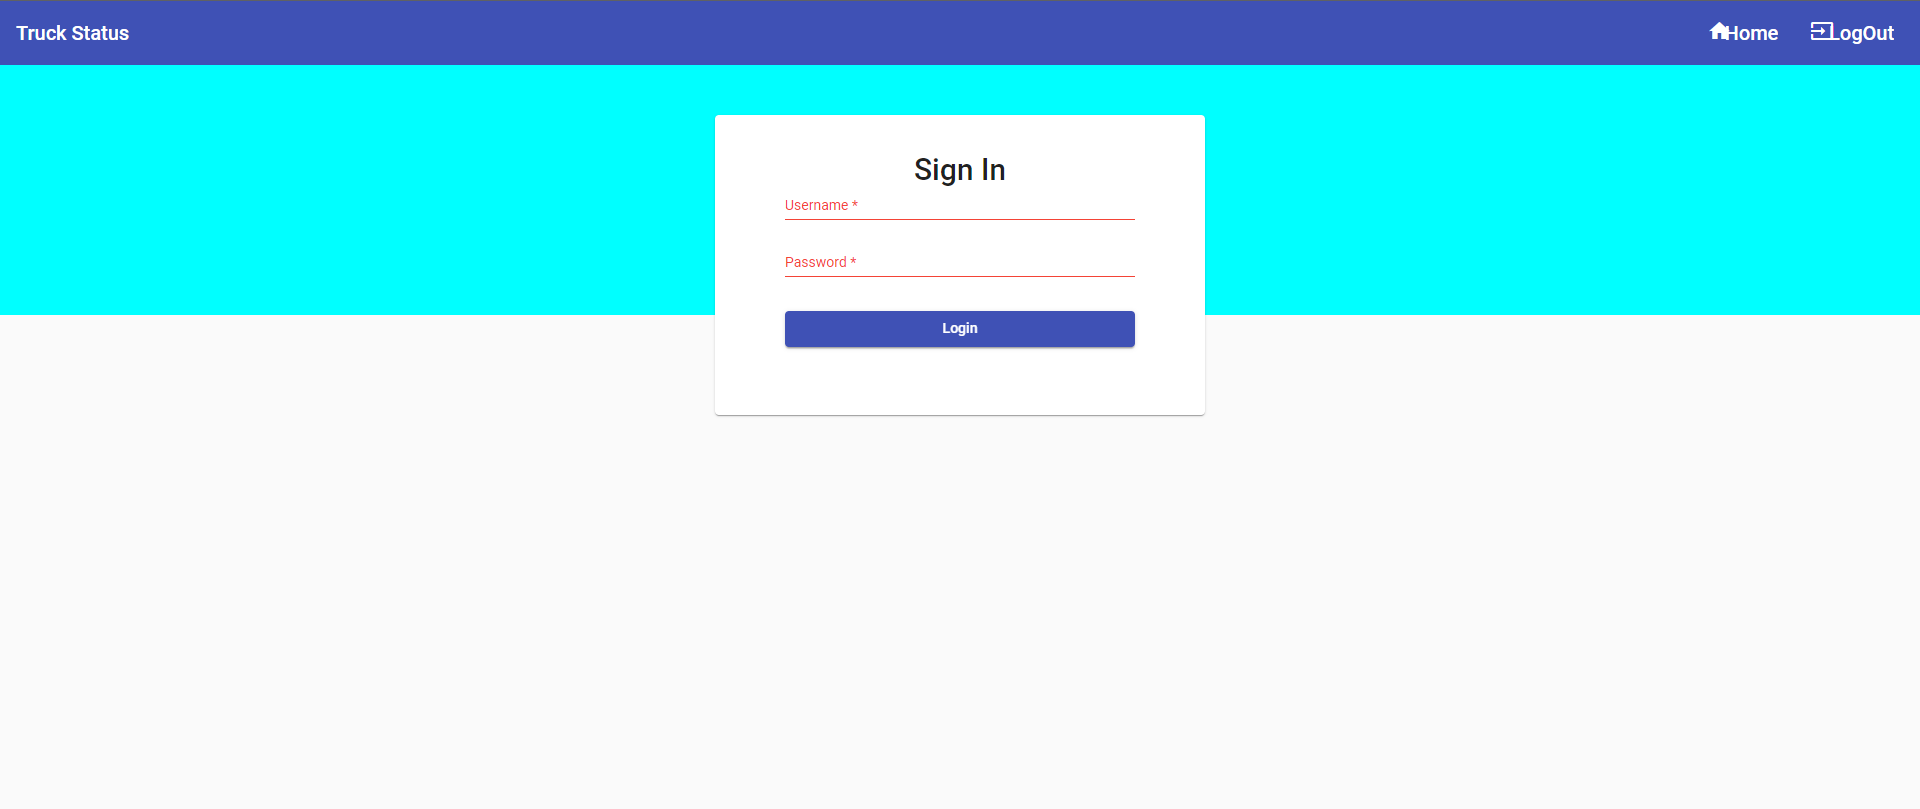
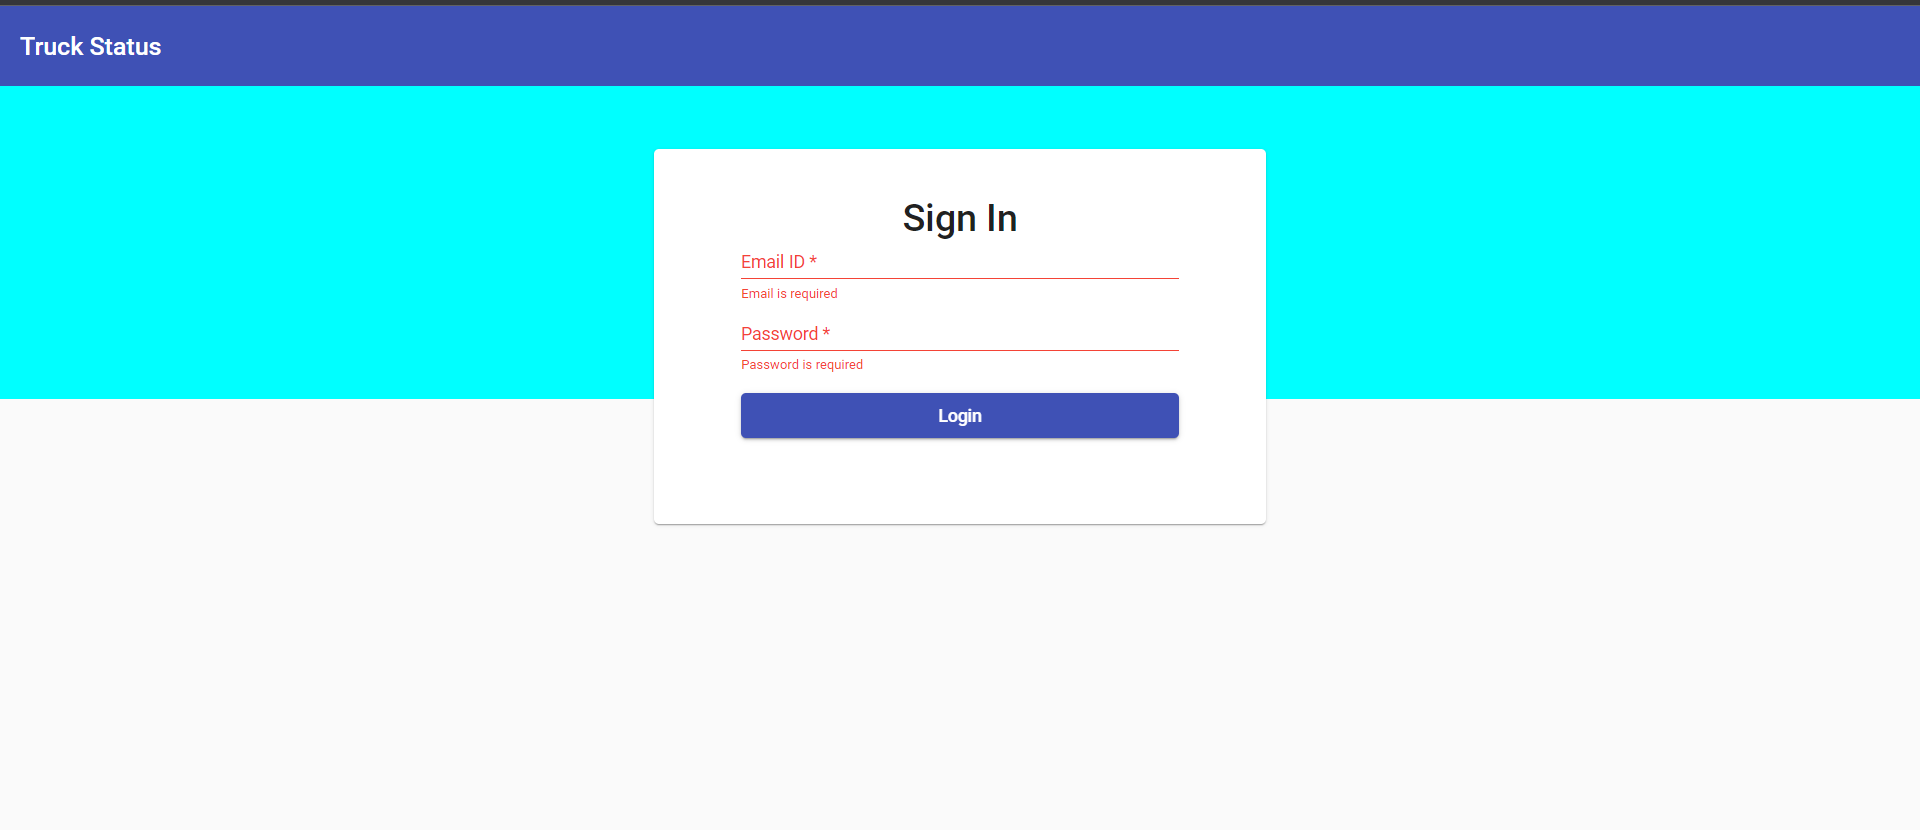
Loading progress bar, snackbar and code comment is completed.

Changed region(s): [[0.0, 0.0, 1.0, 0.5562], [0.4062, 0.2472, 0.4375, 0.2781]]

diff --git a/src/app/pages/login/login.component.ts b/src/app/pages/login/login.component.ts
@@ -5,6 +5,7 @@ import { AuthService } from 'src/app/services/auth.service';
 import { first } from 'rxjs/operators';
 import { MatDialog } from '@angular/material/dialog';
 import { AlertDialogComponent } from 'src/app/shared/component/alert-dialog/alert-dialog.component';
+import { MatSnackBar } from '@angular/material/snack-bar';
 
 @Component({
     selector: 'app-login',
@@ -21,30 +22,34 @@ export class LoginComponent implements OnInit {
 
     constructor(
         private formBuilder: FormBuilder,
-        private route: ActivatedRoute,
         private router: Router,
         private authService: AuthService,
-        private alertDialog: MatDialog
+        private alertDialog: MatDialog,
+        private snackBar: MatSnackBar
     ) {
         // redirect to home if already logged in
         if (this.authService.userValue) {
-            this.router.navigate(['/']);
+            let currentUser = localStorage.getItem('user');
+            if (currentUser != null) {
+                this.router.navigate(['/']);
+            }
         }
     }
 
     ngOnInit() {
         this.loginForm = this.formBuilder.group({
-            username: ['assignmentuser@gmail.com', Validators.required],
-            password: ['qwerty123', Validators.required]
+            username: ['', Validators.required],    //assignmentuser@gmail.com
+            password: ['', Validators.required]     //qwerty123
         });
-
-        // get return url from route parameters or default to '/'
-        this.returnUrl = this.route.snapshot.queryParams['returnUrl'] || '/';
     }
 
     // convenience getter for easy access to form fields
     get f(): any { return this.loginForm.controls; }
 
+    /**
+     * Login Api integrated while press login button in logic component
+     * @returns 
+     */
     onSubmit() {
         this.submitted = true;
 
@@ -58,17 +63,37 @@ export class LoginComponent implements OnInit {
             .pipe(first())
             .subscribe(
                 data => {
-                    this.router.navigate([this.returnUrl]);
+                    this.loading = false;
+                    if(data.success)
+                    {                        
+                    this.showSnackBar(data.message);
+                    this.router.navigate(["/"]);
+                    }
+                    else{
+                        this.showErrorDialog(data.message);                        
+                    }
+                    console.log(data);
                 },
                 error => {
                     this.error = error;
                     this.loading = false;
-                    this.showErrorDialog(this.error)
+                    this.showErrorDialog(this.error);
                 });
     }
 
+    /**
+     * Show the success message snack bar
+     */
+    showSnackBar(msg: string){
+        this.snackBar.open(msg)
+    }
+
+    /**
+     * Show the common alert dialog for error message
+     * @param msg 
+     */
     showErrorDialog(msg: string) {
-        this.alertDialog.open(AlertDialogComponent, { data: {type: "error", data: msg} })
+        this.alertDialog.open(AlertDialogComponent, { data: { type: "Opps!", data: msg } })
     }
 
 }

diff --git a/src/app/services/auth.service.ts b/src/app/services/auth.service.ts
@@ -1,7 +1,7 @@
 import { HttpClient } from '@angular/common/http';
 import { Injectable } from '@angular/core';
 import { Router } from '@angular/router';
-import { BehaviorSubject, Observable } from 'rxjs';
+import { BehaviorSubject, Observable, Subject } from 'rxjs';
 import { map } from 'rxjs/operators';
 import { environment } from 'src/environments/environment';
 import { User } from '../models/User';
@@ -12,6 +12,7 @@ import { User } from '../models/User';
 export class AuthService {
   private userSubject: BehaviorSubject<User>;
   public user: Observable<User>;
+  public isLoginSubject = new Subject<boolean>();
 
   constructor(
     private router: Router,
@@ -28,6 +29,10 @@ export class AuthService {
    * Get current user details
    */
   public get userValue(): User {
+    let currentUser = localStorage.getItem('user');
+    if (currentUser != null) {
+      return JSON.parse(currentUser);
+    }
     return this.userSubject?.value;
   }
 
@@ -40,6 +45,7 @@ export class AuthService {
         {
         this.userSubject.next(user);
         }
+        this.isLoginSubject.next(true);
         return user;
       }));
   }
@@ -57,6 +63,7 @@ export class AuthService {
     // remove user from local storage and set current user to null
     localStorage.removeItem('user');
     // this.userSubject.next(null);
-    this.router.navigate(['login']);
+    this.isLoginSubject.next(false);
+    this.router.navigate(['/login']);
   }
 }

diff --git a/src/app/pages/truck-map/truck-map.component.ts b/src/app/pages/truck-map/truck-map.component.ts
@@ -12,13 +12,14 @@ import { Trucks, TrucksResponse } from './../../models/TrucksResponse';
 })
 export class TruckMapComponent implements OnInit {
 
+  //Default option for google map
   mapOptions: google.maps.MapOptions = {
     center: { lat: 23.7045863, lng: 90.4275232 },
     zoom: 14,
     fullscreenControl: true
   }
 
-  truckResponse: TrucksResponse;
+  truckResponse: TrucksResponse;    //Truck Api response
   truckColl: Trucks[] = [];
   markers: any = [];
   center: { lat: 23.7045863, lng: 90.4275232 };
@@ -42,7 +43,7 @@ export class TruckMapComponent implements OnInit {
         },
         label: {
           color: 'red',
-          text: truck.nameBn,
+          text: truck.name,
         },
         icon: 'https://developers.google.com/maps/documentation/javascript/examples/full/images/beachflag.png',
         title: truck.name?.toString(),
@@ -67,7 +68,7 @@ export class TruckMapComponent implements OnInit {
           this.addMarkers();
         }
         else {
-          this.showAlertDialog("error", this.truckResponse.message);
+          this.showAlertDialog("Error", this.truckResponse.message);
         }
       }
 

diff --git a/src/app/pages/login/login.component.html b/src/app/pages/login/login.component.html
@@ -1,4 +1,5 @@
 <div class="app-header">
+    <mat-progress-bar mode="indeterminate" *ngIf="loading"></mat-progress-bar>
 
 </div>
 
@@ -17,9 +18,11 @@
             fxLayoutAlign="center stretch">
             <mat-card-content>
                 <mat-form-field class="example-full-width">
-                    <input matInput placeholder="Username" type="email" maxlength="50" formControlName="username" email="true"
+                    <input matInput placeholder="Email ID" type="email" maxlength="50" formControlName="username" email="true"
                         [ngClass]="{ 'is-invalid': submitted && f.username.errors }">
-                    <mat-error *ngIf="submitted && f.username.errors && f.username.errors.required">Username is required
+                    <mat-error *ngIf="submitted && f.username.errors && f.username.errors.required">Email is required
+                    </mat-error>
+                    <mat-error *ngIf="submitted && f.username.errors && f.username.errors?.email">Invalid email id
                     </mat-error>
                 </mat-form-field>
 

diff --git a/src/app/app.component.html b/src/app/app.component.html
@@ -1,6 +1,6 @@
 <mat-sidenav-container>
   <mat-sidenav #sidenav role="navigation">
-    <mat-nav-list>
+    <mat-nav-list *ngIf="isLogged">
       <a mat-list-item routerLink="/">
         <mat-icon class="icon">home</mat-icon>
         <span class="label">Home</span>
@@ -14,7 +14,7 @@
   <mat-sidenav-content>
     <mat-toolbar color="primary">
       <div fxHide.gt-xs>
-        <button mat-icon-button (click)="sidenav.toggle()">
+        <button mat-icon-button (click)="sidenav.toggle()" *ngIf="isLogged">
           <mat-icon>menu</mat-icon>
         </button>
       </div>
@@ -23,7 +23,7 @@
           Truck Status
         </a>
       </div>
-      <div fxFlex fxLayout fxLayoutAlign="flex-end" fxHide.xs *ngIf="currentUser != null">
+      <div fxFlex fxLayout fxLayoutAlign="flex-end" fxHide.xs *ngIf="isLogged">
         <ul fxLayout fxLayoutGap="20px" class="navigation-items">
           <li>
             <a routerLink="/">

diff --git a/src/app/app.component.ts b/src/app/app.component.ts
@@ -8,13 +8,24 @@ import { AuthService } from './services/auth.service';
   styleUrls: ['./app.component.css']
 })
 export class AppComponent {
-  currentUser: User;
+  isLogged: Boolean = false;
 
   constructor(private authService: AuthService) {
     try {
-      this.authService.user.subscribe(x => this.currentUser = x);
+      this.authService.isLoginSubject.subscribe(x => this.isLogged = x);
     } catch (error) {
 
+    }
+    this.validateUserLogged();
+  }
+  
+
+  validateUserLogged()
+  {
+    
+    let currentUser = localStorage.getItem('user');
+    if (currentUser != null) {
+      this.isLogged = true;
     }
   }
 

diff --git a/src/app/core/interceptor/auth.interceptor.ts b/src/app/core/interceptor/auth.interceptor.ts
@@ -22,7 +22,7 @@ export class AuthInterceptor implements HttpInterceptor {
         const isApiUrl = request.url.startsWith(environment.apiUrl);
         if (isLoggedIn && isApiUrl) {
             request = request.clone({
-                setHeaders: {
+                setHeaders: {   //Set Authtoken for other api, Its received from login api
                     "authtoken": user.data.token
                 }
             });

diff --git a/src/app/models/TrucksResponse.ts b/src/app/models/TrucksResponse.ts
@@ -1,3 +1,5 @@
+//https://qa2.gim.com.bd/ejogajogAdminAPI/api/v1/admin/master/truckstands
+//Truckstand api Data Model
 export class TrucksResponse{
     data:         Trucks[];
     success:      boolean;

diff --git a/src/app/models/User.ts b/src/app/models/User.ts
@@ -1,3 +1,5 @@
+//https://qa2.gim.com.bd/ejogajog/api/v1/auth/adminLogIn
+//Truckstand api Data Model
 export class User{
     data:         Data;
     success:      boolean;

diff --git a/src/app/app.component.css b/src/app/app.component.css
@@ -32,7 +32,6 @@ a:active {
   padding-right: 5px;
   text-align: center;
   vertical-align: middle;
-  width: 15%;
 }
 
 .label {

diff --git a/README.md b/README.md
@@ -13,6 +13,10 @@ Run `ng serve` for a dev server. Navigate to `http://localhost:4200/`. The app w
 @angular/google-maps
 @angular/material
 
+## Test Data
+
+Login Credentials: assignmentuser@gmail.com / qwerty123
+
 ## Screenshots
 ## Login Screen
 ![Alt text](screenshots/login.png "Optional Title")
